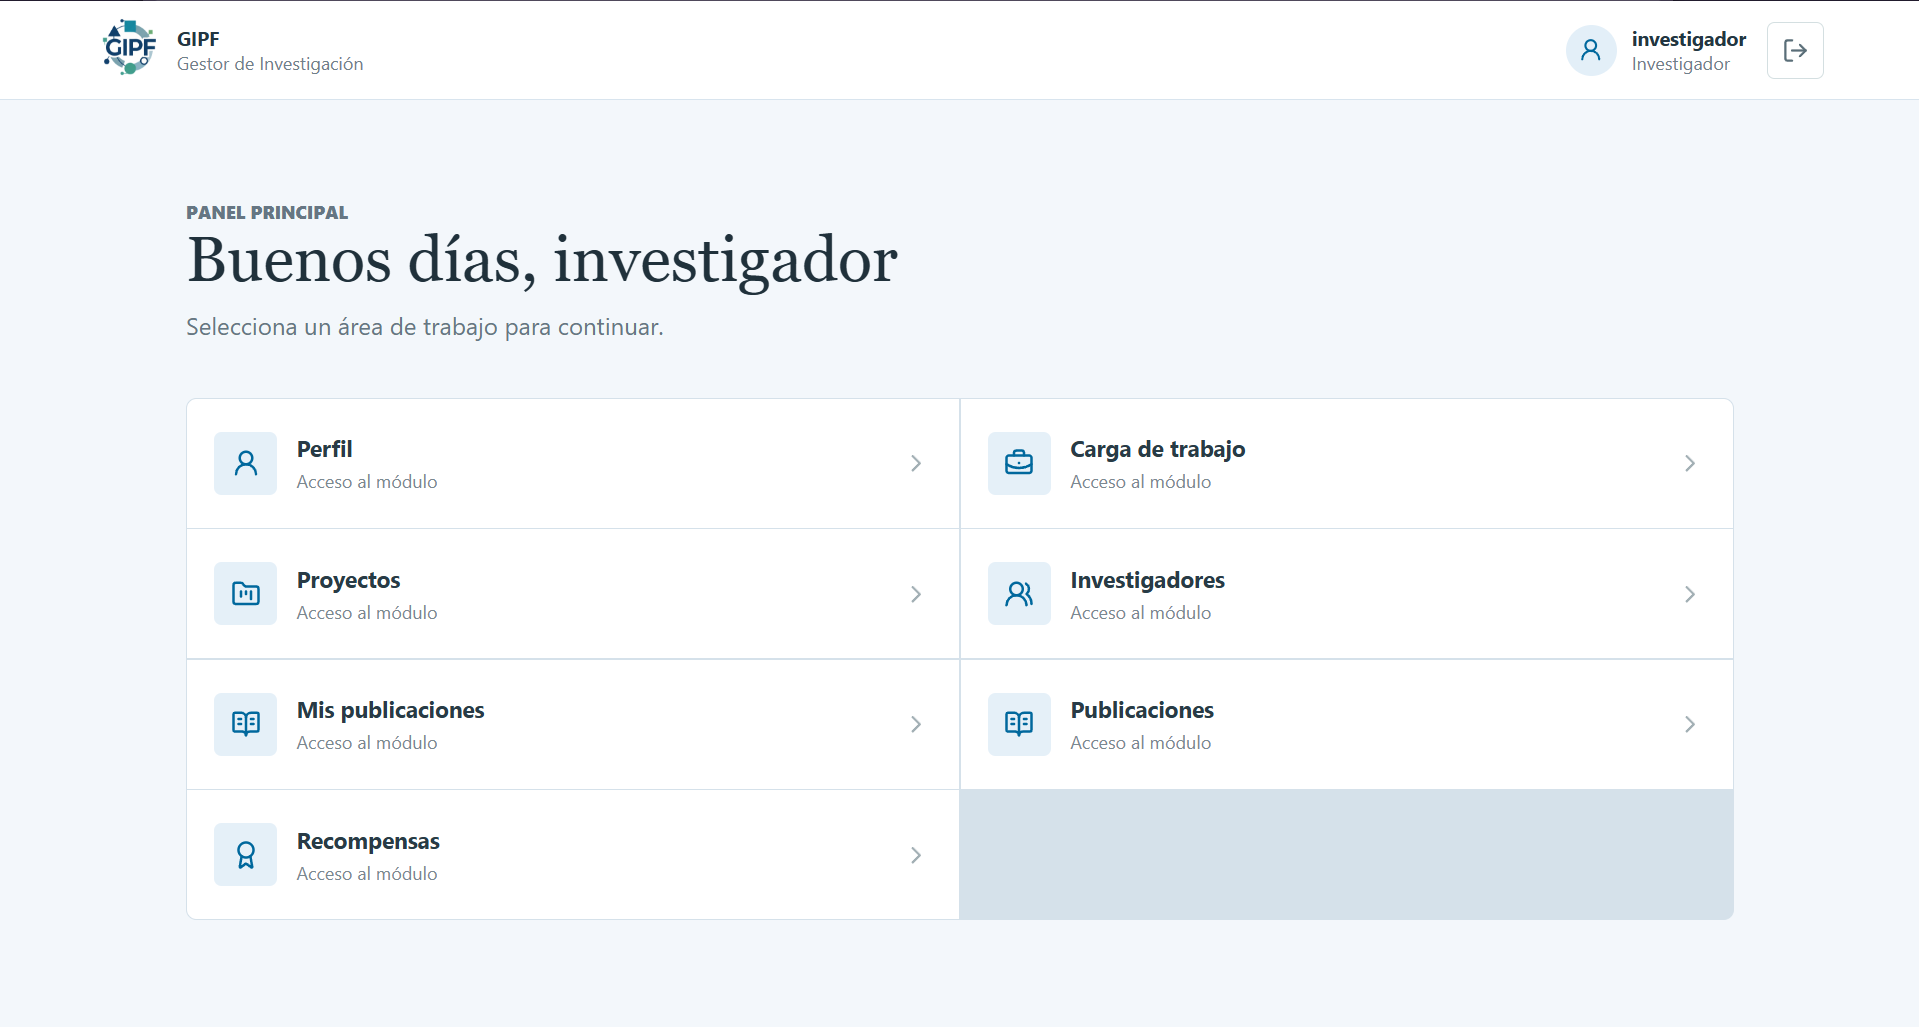
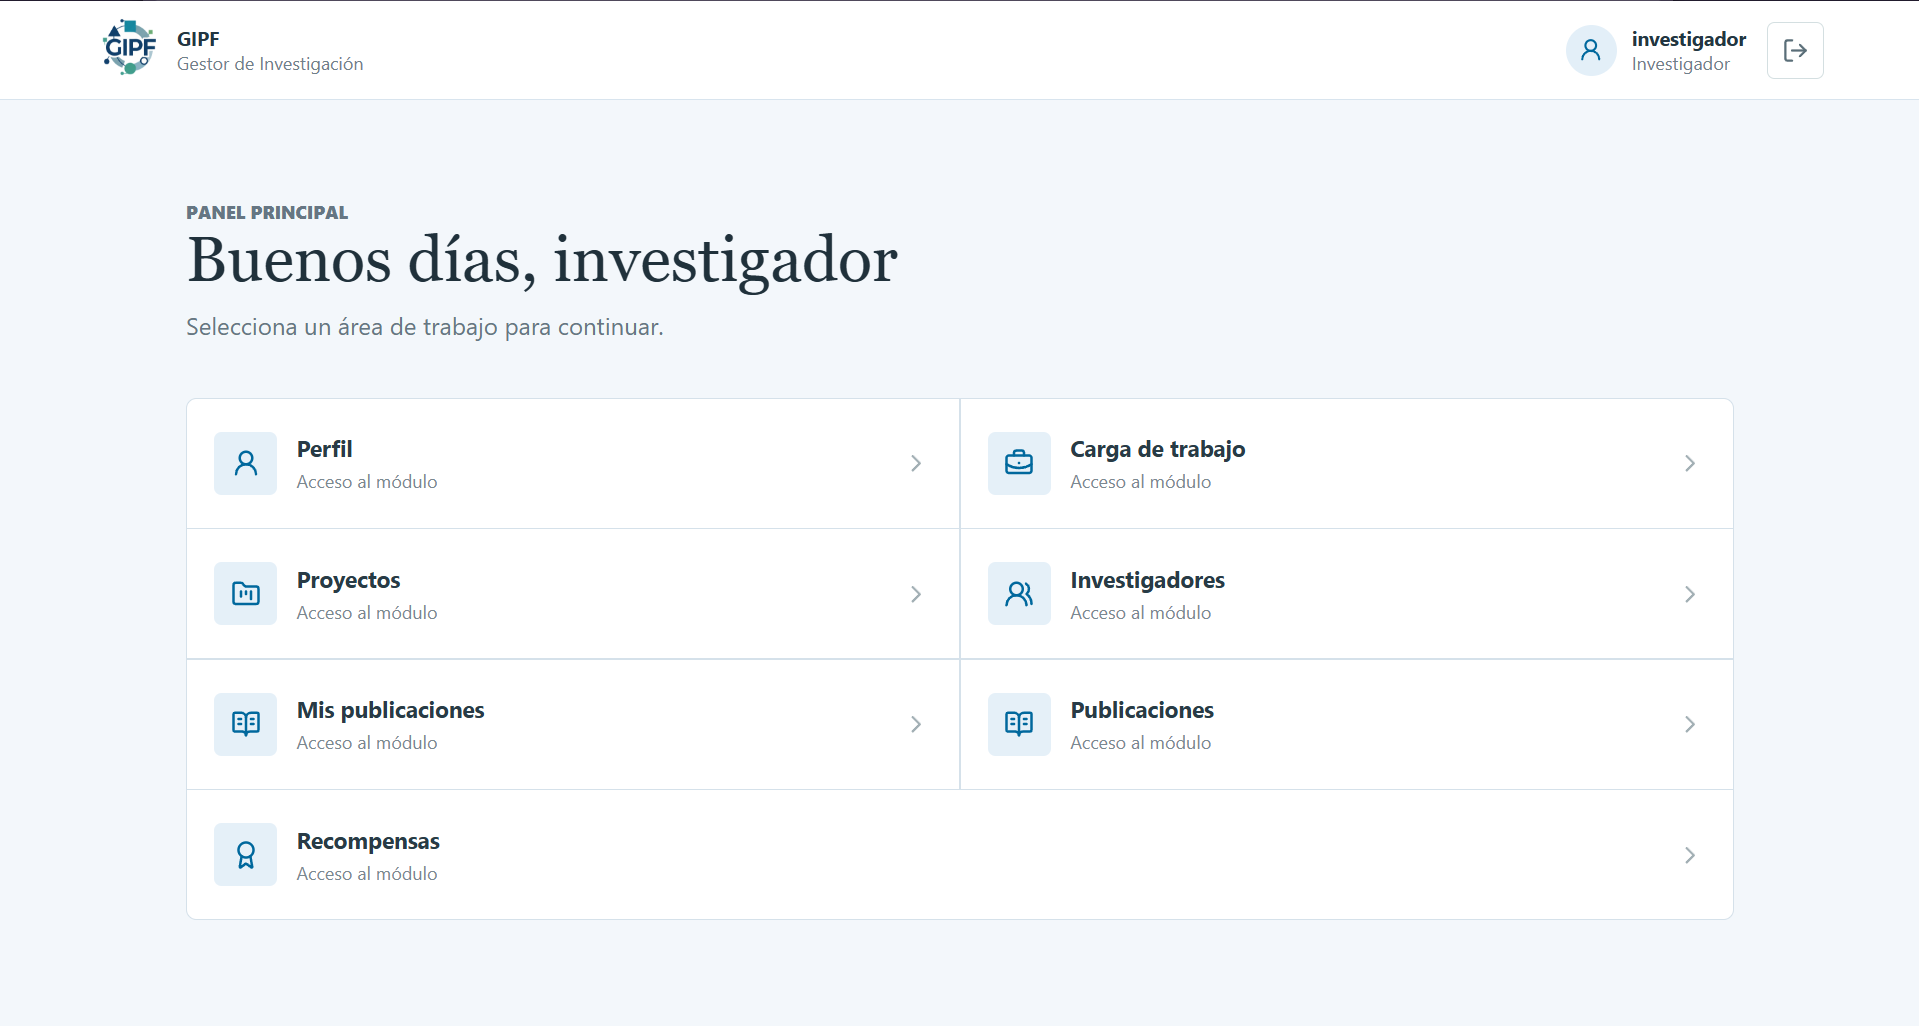
docs: cerrar revisión del primer bloque y registrar incidencias
- alinear diagramas de Diseño con el flujo real de CSRF y cierre de sesión
- regenerar los SVG de iniciarSesion y cerrarSesion por actor
- completar enlaces de trazabilidad entre disciplinas RUP
- ajustar el último módulo impar del panel del Investigador
- actualizar su captura de evidencia visual
- registrar incidencias, soluciones y tareas previas al despliegue

diff --git a/src/frontend/src/styles.css b/src/frontend/src/styles.css
@@ -345,6 +345,10 @@ input {
   background: #f7fafc;
 }
 
+.action-row:last-child:nth-child(odd) {
+  grid-column: 1 / -1;
+}
+
 .action-icon {
   display: grid;
   width: 42px;

diff --git a/src/backend/src/main/java/es/funiber/investigacion/config/SecurityConfig.java b/src/backend/src/main/java/es/funiber/investigacion/config/SecurityConfig.java
@@ -1,7 +1,7 @@
 package es.funiber.investigacion.config;
 
-import java.util.List;
 import java.util.Arrays;
+import java.util.List;
 import org.springframework.beans.factory.annotation.Value;
 import org.springframework.context.annotation.Bean;
 import org.springframework.context.annotation.Configuration;

diff --git a/incidencias_y_soluciones.md b/incidencias_y_soluciones.md
@@ -1,0 +1,111 @@
+# Incidencias y soluciones
+
+Este documento registra problemas encontrados durante el desarrollo de la Plataforma Interna de Investigación de FUNIBER, su causa y la solución aplicada. Su objetivo es conservar el razonamiento técnico del proyecto y facilitar futuras revisiones.
+
+## Incidencias resueltas
+
+### Error 403 al iniciar sesión desde el navegador integrado
+
+**Síntoma:** El inicio de sesión funcionaba desde `http://localhost:5173`, pero devolvía `403 Forbidden` al abrir la aplicación desde `http://127.0.0.1:5173`.
+
+**Causa:** La configuración CORS del backend solo autorizaba el origen `http://localhost:5173`. Aunque ambos apuntan al mismo equipo, el navegador los considera orígenes distintos.
+
+**Solución:** Se permitió configurar varios orígenes mediante `FRONTEND_ORIGINS` y se añadieron los dos orígenes locales por defecto:
+
+```properties
+http://localhost:5173,http://127.0.0.1:5173
+```
+
+**Validación:** Se añadió una prueba de integración que comprueba el acceso desde `http://127.0.0.1:5173`.
+
+### Token CSRF no actualizado antes de una mutación
+
+**Síntoma:** Algunas peticiones protegidas podían fallar si reutilizaban un token CSRF anterior.
+
+**Causa:** El frontend conservaba temporalmente el token obtenido en una petición previa. Tras crear o modificar una sesión, Spring Security puede renovar ese token.
+
+**Solución:** El frontend solicita un token CSRF vigente antes de iniciar o cerrar sesión y renueva el token tras autenticar correctamente.
+
+**Validación:** Se comprobó el inicio de sesión, el reintento tras credenciales incorrectas y el cierre de sesión mediante la suite backend y recorridos manuales.
+
+### Mensaje técnico visible tras introducir credenciales incorrectas
+
+**Síntoma:** La interfaz mostraba `Credenciales incorrectas (401 /auth/login)`.
+
+**Causa:** Durante el diagnóstico se añadió temporalmente información HTTP al mensaje mostrado al usuario.
+
+**Solución:** Se mantuvo el detalle técnico únicamente para depuración y se restauró el mensaje visible:
+
+```text
+Credenciales incorrectas
+```
+
+**Validación:** Se actualizó la captura de evidencia del formulario con credenciales inválidas.
+
+### Hueco visual en el panel del Investigador
+
+**Síntoma:** El panel del Investigador tenía siete módulos y dejaba una celda vacía al final de la cuadrícula de dos columnas.
+
+**Causa:** La cuadrícula no contemplaba el caso de una cantidad impar de módulos.
+
+**Solución:** El último módulo ocupa ambas columnas cuando es el último elemento impar.
+
+**Validación:** Se sustituyó la captura del panel del Investigador con la nueva distribución.
+
+### Diagramas de Diseño desalineados con la implementación
+
+**Síntoma:** Los diagramas indicaban que el token CSRF se obtenía antes de presentar el formulario y afirmaban que el cierre de sesión expiraba la cookie.
+
+**Causa:** El Diseño inicial reflejaba una aproximación previa al código definitivo.
+
+**Solución:** Se actualizaron los diagramas de secuencia y sus README:
+
+- El formulario se presenta antes de solicitar el token CSRF necesario para enviar credenciales.
+- El cierre solicita un token vigente antes de ejecutar `POST /api/auth/logout`.
+- La documentación garantiza la invalidación de la sesión del servidor sin afirmar que la cookie expira.
+- El atributo `Secure` de la cookie se documenta como obligatorio en producción mediante HTTPS.
+
+**Validación:** Se regeneraron los cuatro SVG afectados con PlantUML.
+
+### Navegación documental incompleta
+
+**Síntoma:** Algunos README del primer bloque enlazaban únicamente a índices generales o no incluían acceso directo a Pruebas.
+
+**Causa:** Las cabeceras se habían creado antes de completar todas las disciplinas RUP.
+
+**Solución:** Se añadieron enlaces directos por caso de uso entre Detalle, Análisis, Diseño, Desarrollo y Pruebas.
+
+**Validación:** Se comprobaron las rutas internas modificadas y no quedan enlaces rotos en el bloque revisado.
+
+## Decisiones de seguridad
+
+### Almacenamiento de contraseñas
+
+Los usuarios de demostración se crean desde el backend durante el arranque local. La base de datos no almacena contraseñas en texto plano: guarda hashes BCrypt en la columna `contrasena_hash`.
+
+Antes del despliegue público se sustituirán las contraseñas de demostración incluidas en el código por variables de entorno o por una inicialización administrativa.
+
+### Sesiones HTTP
+
+La autenticación utiliza sesiones HTTP. El navegador conserva una cookie de sesión y la envía automáticamente al backend. En producción se activa `Secure` para que la cookie solo viaje mediante HTTPS.
+
+## Verificación actual
+
+|Comprobación|Resultado|
+|-|-|
+|Suite backend|8 pruebas correctas|
+|Lint frontend|Correcto|
+|Build frontend de producción|Correcto|
+|Reintento tras credenciales incorrectas|Comprobado|
+|Cancelación del cierre de sesión|Comprobada|
+|Cierre confirmado|Comprobado|
+|Permisos diferenciados por rol|Comprobados|
+
+## Mejoras pendientes antes del despliegue
+
+- Crear el `Dockerfile` definitivo.
+- Configurar PostgreSQL en el proveedor de despliegue.
+- Extraer las contraseñas de demostración del código.
+- Publicar la aplicación mediante una URL accesible para evaluación.
+- Validar el recorrido completo desde un navegador externo sin sesión previa.
+

diff --git a/RUP/04-pruebas/casos-uso/coordinador/cerrarSesion/README.md b/RUP/04-pruebas/casos-uso/coordinador/cerrarSesion/README.md
@@ -14,14 +14,13 @@ Comprobar que el Coordinador puede cancelar el cierre y permanecer en `PANEL_PRI
 |Confirmar cierre|La sesión queda invalidada|`cerrarSesionImpideVolverAConsultarElPanel()`|
 |Consultar panel después del cierre|Respuesta `401 Unauthorized`|`cerrarSesionImpideVolverAConsultarElPanel()`|
 
-## Comprobación visual pendiente
+## Comprobación visual
 
-- Abrir el modal, pulsar Cancelar y confirmar que el panel permanece visible.
-- Abrir de nuevo el modal, confirmar el cierre y comprobar que vuelve el formulario de acceso.
+- [x] Abrir el modal, pulsar Cancelar y confirmar que el panel permanece visible.
+- [x] Abrir de nuevo el modal, confirmar el cierre y comprobar que vuelve el formulario de acceso.
 
 ## Evidencia visual
 
 |Confirmación de cierre del Coordinador|
 |-|
 |![Confirmación de cierre del Coordinador](/images/RUP/04-pruebas/coordinador-cerrarSesion-confirmacion.png)|
-

diff --git a/RUP/04-pruebas/casos-uso/investigador/cerrarSesion/README.md b/RUP/04-pruebas/casos-uso/investigador/cerrarSesion/README.md
@@ -14,14 +14,13 @@ Comprobar que el Investigador puede cancelar el cierre y permanecer en `PANEL_PR
 |Confirmar cierre|La sesión queda invalidada|`cerrarSesionImpideVolverAConsultarElPanel()`|
 |Consultar panel después del cierre|Respuesta `401 Unauthorized`|`cerrarSesionImpideVolverAConsultarElPanel()`|
 
-## Comprobación visual pendiente
+## Comprobación visual
 
-- Abrir el modal, pulsar Cancelar y confirmar que el panel permanece visible.
-- Abrir de nuevo el modal, confirmar el cierre y comprobar que vuelve el formulario de acceso.
+- [x] Abrir el modal, pulsar Cancelar y confirmar que el panel permanece visible.
+- [x] Abrir de nuevo el modal, confirmar el cierre y comprobar que vuelve el formulario de acceso.
 
 ## Evidencia visual
 
 |Confirmación de cierre del Investigador|
 |-|
 |![Confirmación de cierre del Investigador](/images/RUP/04-pruebas/investigador-cerrarSesion-confirmacion.png)|
-

diff --git a/tareas_a_realizar.md b/tareas_a_realizar.md
@@ -6,6 +6,7 @@ Documento de seguimiento para no olvidar actualizaciones documentales y técnica
 
 - [ ] Revisar los diagramas de especificación antes de aceptar el Análisis de cada familia funcional.
 - [ ] Revisar los diagramas de colaboración antes de crear su Diseño.
+- [ ] Actualizar [`incidencias_y_soluciones.md`](incidencias_y_soluciones.md) con los problemas relevantes y su resolución.
 - [ ] Crear los `README.md` y `secuencia.puml` de Diseño para cada caso revisado.
 - [ ] Generar los SVG de Diseño en `images/RUP/02-diseño`.
 - [x] Crear la documentación de Desarrollo de cada caso en `RUP/03-desarrollo/casos-uso`.
@@ -53,6 +54,7 @@ Actualizar [`RUP/03-desarrollo/README.md`](RUP/03-desarrollo/README.md) durante 
 - [x] Aplicar la identidad visual azul corporativa de FUNIBER.
 - [x] Incorporar el logotipo GIPF al login y a la cabecera del panel.
 - [x] Añadir capturas o evidencias visuales relevantes cuando exista frontend funcional.
+- [x] Sustituir la captura del panel del Investigador tras ajustar el último módulo a ancho completo.
 
 ## Pruebas
 
@@ -62,13 +64,14 @@ Actualizar [`RUP/03-desarrollo/README.md`](RUP/03-desarrollo/README.md) durante 
 - [x] Añadir evidencias de ejecución y resultados.
 - [x] Verificar permisos diferenciados de Coordinador e Investigador.
 - [x] Probar credenciales incorrectas, sesión válida y cierre confirmado.
-- [ ] Probar desde la interfaz el reintento de acceso y la cancelación del cierre de sesión.
+- [x] Probar desde la interfaz el reintento de acceso y la cancelación del cierre de sesión.
 
 ## Despliegue y entrega final
 
 - [ ] Crear el `Dockerfile` definitivo.
 - [ ] Comprobar que la aplicación arranca desde un entorno limpio.
 - [ ] Configurar PostgreSQL en el proveedor de despliegue.
+- [ ] Sustituir las contraseñas de demostración incluidas en el código por variables de entorno o una inicialización administrativa.
 - [ ] Publicar la aplicación en una URL accesible para evaluación.
 - [ ] Verificar la URL pública desde un navegador sin sesión previa.
 - [ ] Actualizar [`README.md`](README.md) con presentación, instalación, ejecución y acceso público.

diff --git a/RUP/02-diseño/casos-uso/coordinador/iniciarSesion/README.md b/RUP/02-diseño/casos-uso/coordinador/iniciarSesion/README.md
@@ -15,7 +15,7 @@ Detallar la interacción técnica para autenticar al Coordinador. El Diseño con
 
 ## Participantes
 
-- **LoginPage**: Obtiene el token CSRF, presenta el formulario, captura las credenciales y muestra el resultado.
+- **LoginPage**: Presenta el formulario, captura las credenciales, obtiene el token CSRF al enviarlas y muestra el resultado.
 - **AuthController**: Expone `GET /api/auth/csrf` y `POST /api/auth/login`.
 - **Spring Security**: Proporciona el token CSRF utilizado por la petición de autenticación.
 - **AuthService**: Valida la existencia, contraseña y estado activo del usuario.
@@ -27,7 +27,7 @@ Detallar la interacción técnica para autenticar al Coordinador. El Diseño con
 - El actor es `Coordinador` para mantener trazabilidad con la especificación funcional.
 - La lógica técnica se comparte con el inicio de sesión del Investigador, aunque cada carpeta conserva su actor correspondiente.
 - Las credenciales incorrectas producen `401 Unauthorized` y permiten reintentar.
-- La sesión utiliza una cookie `HttpOnly`, `Secure` y `SameSite=Lax`.
+- La sesión utiliza una cookie `HttpOnly` y `SameSite=Lax`; en producción también se activa `Secure`.
 - El token CSRF protege la petición que crea la sesión.
 - Tras autenticar correctamente, el frontend solicita un token CSRF renovado para las operaciones posteriores.
 

diff --git a/RUP/02-diseño/casos-uso/investigador/iniciarSesion/README.md b/RUP/02-diseño/casos-uso/investigador/iniciarSesion/README.md
@@ -15,7 +15,7 @@ Detallar la interacción técnica para autenticar al Investigador. El Diseño co
 
 ## Participantes
 
-- **LoginPage**: Obtiene el token CSRF, presenta el formulario, captura las credenciales y muestra el resultado.
+- **LoginPage**: Presenta el formulario, captura las credenciales, obtiene el token CSRF al enviarlas y muestra el resultado.
 - **AuthController**: Expone `GET /api/auth/csrf` y `POST /api/auth/login`.
 - **Spring Security**: Proporciona el token CSRF utilizado por la petición de autenticación.
 - **AuthService**: Valida la existencia, contraseña y estado activo del usuario.
@@ -27,7 +27,7 @@ Detallar la interacción técnica para autenticar al Investigador. El Diseño co
 - El actor es `Investigador` para mantener trazabilidad con la especificación funcional.
 - La lógica técnica se comparte con el inicio de sesión del Coordinador, aunque cada carpeta conserva su actor correspondiente.
 - Las credenciales incorrectas producen `401 Unauthorized` y permiten reintentar.
-- La sesión utiliza una cookie `HttpOnly`, `Secure` y `SameSite=Lax`.
+- La sesión utiliza una cookie `HttpOnly` y `SameSite=Lax`; en producción también se activa `Secure`.
 - El token CSRF protege la petición que crea la sesión.
 - Tras autenticar correctamente, el frontend solicita un token CSRF renovado para las operaciones posteriores.
 

diff --git a/RUP/00-casos-uso/02-detalle/coordinador/abrirPanelPrincipal/README.md b/RUP/00-casos-uso/02-detalle/coordinador/abrirPanelPrincipal/README.md
@@ -1,6 +1,6 @@
 # FUNIBER > Coordinador > abrirPanelPrincipal > Detalle y prototipado
 
-> |[🏠️](/README.md)|[📊](/RUP/00-casos-uso/01-actores-casos-uso/diagramas-contexto.md)|**Detalle**|[Análisis](/RUP/01-analisis/README.md)|[Diseño](/RUP/02-diseño/README.md)|[Desarrollo](/RUP/03-desarrollo/README.md)|Pruebas|
+> |[🏠️](/README.md)|[📊](/RUP/00-casos-uso/01-actores-casos-uso/diagramas-contexto.md)|**Detalle**|[Análisis](/RUP/01-analisis/casos-uso/coordinador/abrirPanelPrincipal/README.md)|[Diseño](/RUP/02-diseño/casos-uso/coordinador/abrirPanelPrincipal/README.md)|[Desarrollo](/RUP/03-desarrollo/casos-uso/coordinador/abrirPanelPrincipal/README.md)|[Pruebas](/RUP/04-pruebas/casos-uso/coordinador/abrirPanelPrincipal/README.md)|
 > |-|-|-|-|-|-|-|
 
 ## Información del artefacto

diff --git a/RUP/00-casos-uso/02-detalle/coordinador/cerrarSesion/README.md b/RUP/00-casos-uso/02-detalle/coordinador/cerrarSesion/README.md
@@ -1,6 +1,6 @@
 # FUNIBER > Coordinador > cerrarSesion > Detalle y prototipado
 
-> |[🏠️](/README.md)|[📊](/RUP/00-casos-uso/01-actores-casos-uso/diagramas-contexto.md)|**Detalle**|[Análisis](/RUP/01-analisis/README.md)|[Diseño](/RUP/02-diseño/README.md)|[Desarrollo](/RUP/03-desarrollo/README.md)|Pruebas|
+> |[🏠️](/README.md)|[📊](/RUP/00-casos-uso/01-actores-casos-uso/diagramas-contexto.md)|**Detalle**|[Análisis](/RUP/01-analisis/casos-uso/coordinador/cerrarSesion/README.md)|[Diseño](/RUP/02-diseño/casos-uso/coordinador/cerrarSesion/README.md)|[Desarrollo](/RUP/03-desarrollo/casos-uso/coordinador/cerrarSesion/README.md)|[Pruebas](/RUP/04-pruebas/casos-uso/coordinador/cerrarSesion/README.md)|
 > |-|-|-|-|-|-|-|
 
 ## Información del artefacto

diff --git a/RUP/00-casos-uso/02-detalle/coordinador/iniciarSesion/README.md b/RUP/00-casos-uso/02-detalle/coordinador/iniciarSesion/README.md
@@ -1,6 +1,6 @@
 # FUNIBER > Coordinador > iniciarSesion > Detalle y prototipado
 
-> |[🏠️](/README.md)|[📊](/RUP/00-casos-uso/01-actores-casos-uso/diagramas-contexto.md)|**Detalle**|[Análisis](/RUP/01-analisis/README.md)|[Diseño](/RUP/02-diseño/README.md)|[Desarrollo](/RUP/03-desarrollo/README.md)|Pruebas|
+> |[🏠️](/README.md)|[📊](/RUP/00-casos-uso/01-actores-casos-uso/diagramas-contexto.md)|**Detalle**|[Análisis](/RUP/01-analisis/casos-uso/coordinador/iniciarSesion/README.md)|[Diseño](/RUP/02-diseño/casos-uso/coordinador/iniciarSesion/README.md)|[Desarrollo](/RUP/03-desarrollo/casos-uso/coordinador/iniciarSesion/README.md)|[Pruebas](/RUP/04-pruebas/casos-uso/coordinador/iniciarSesion/README.md)|
 > |-|-|-|-|-|-|-|
 
 ## Información del artefacto

diff --git a/RUP/00-casos-uso/02-detalle/investigador/abrirPanelPrincipal/README.md b/RUP/00-casos-uso/02-detalle/investigador/abrirPanelPrincipal/README.md
@@ -1,6 +1,6 @@
 # FUNIBER > Investigador > abrirPanelPrincipal > Detalle y prototipado
 
-> |[🏠️](/README.md)|[📊](/RUP/00-casos-uso/01-actores-casos-uso/diagramas-contexto.md)|**Detalle**|[Análisis](/RUP/01-analisis/README.md)|[Diseño](/RUP/02-diseño/README.md)|[Desarrollo](/RUP/03-desarrollo/README.md)|Pruebas|
+> |[🏠️](/README.md)|[📊](/RUP/00-casos-uso/01-actores-casos-uso/diagramas-contexto.md)|**Detalle**|[Análisis](/RUP/01-analisis/casos-uso/investigador/abrirPanelPrincipal/README.md)|[Diseño](/RUP/02-diseño/casos-uso/investigador/abrirPanelPrincipal/README.md)|[Desarrollo](/RUP/03-desarrollo/casos-uso/investigador/abrirPanelPrincipal/README.md)|[Pruebas](/RUP/04-pruebas/casos-uso/investigador/abrirPanelPrincipal/README.md)|
 > |-|-|-|-|-|-|-|
 
 ## Información del artefacto